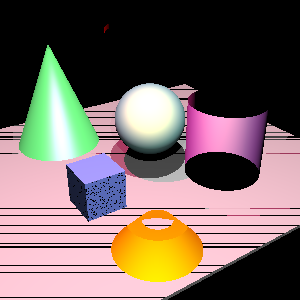
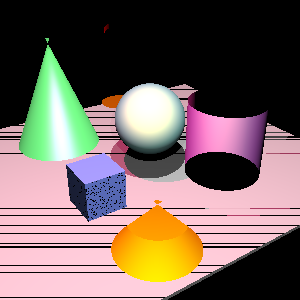
Committing cones n stuff

diff --git a/ray/surface/Cone.java b/ray/surface/Cone.java
@@ -3,9 +3,9 @@ package ray.surface;
 import ray.IntersectionRecord;
 import ray.Ray;
 import ray.math.Point3;
-//import ray.math.Vector3;
-import ray.math.Vector3;
 
+import ray.math.Vector3;
+// TEST2/four-spheres.xml TEST2/green-cone-and-sphere.xml TEST2/one-blue-cylinder.xml TEST2/one-shiny-cylinder.xml TEST2/snow-man.xml TEST2/solids.xml TEST2/two-boxes.xml TEST2/wire-box-3.xml TEST2/pencil.xml
 public class Cone extends Surface {
 	
 	/** The center of the the truncated cone. */
@@ -42,74 +42,91 @@ public class Cone extends Surface {
 		
 		Point3 e = new Point3(rayIn.origin);
 		Vector3 d = new Vector3(rayIn.direction);
+		// C = center;
 		Point3 c = new Point3(center);
+		// P = E-C
 		Point3 p = new Point3(e.x-c.x, e.y-c.y, e.z-c.z);
+		// Distance from point of cone to center point along z axis
 		double h = tipz-c.z;
-		double r = radius;
+//		double h0 = tipz - (c.z+(height/2));
+//		double h1 = tipz - (c.z-(height/2));
+//		double r0 = radius * h0 / height;
+//		double r1 = radius * h1 / height;
 		
-		double s = Math.pow(r, 2)/Math.pow(h, 2);
+		// Calculate the components of the quadratic equation
+		double s = Math.pow(radius, 2)/Math.pow(h, 2);
 		
 		double A = Math.pow(d.x, 2) + Math.pow(d.y, 2) - (s*Math.pow(d.z, 2));
 		double B = 2 * (p.x*d.x + p.y*d.y - s*(p.z-h)*d.z);
 		double C = Math.pow(p.x, 2) + Math.pow(p.y, 2) - (s*Math.pow(p.z-h,2));
-		
-
 		double discriminant = (Math.pow(B, 2) - (4 * A * C));
+		
+		
 		if (discriminant < 0.0) {
 			return false;
 		} else {
-			double t0 = ((-B) + Math.sqrt(discriminant)) / (2 * A);
-			double t1 = ((-B) - Math.sqrt(discriminant)) / 	(2 * A);
 			double t = 0.0;
+			double tStart = rayIn.start;
+			double tEnd = rayIn.end;
 
+			// Calculate T Values
+			double tw0 = ((-B)+Math.sqrt(discriminant))/(2*A);
+			double tw1 = ((-B)-Math.sqrt(discriminant))/(2*A);
 			double tc0 = ((c.z+(height/2))-e.z)/d.z;
 			double tc1 = ((c.z-(height/2))-e.z)/d.z;
 
-			Point3 q0 = new Point3();
-			Point3 q1 = new Point3();
+			// Calculate four intersection points.
+			Point3 qw0 = new Point3();
+			Point3 qw1 = new Point3();
 			Point3 qc0 = new Point3();
 			Point3 qc1 = new Point3();
-			
-			rayIn.evaluate(q0, t0);
-			rayIn.evaluate(q1, t1);
+			rayIn.evaluate(qw0, tw0);
+			rayIn.evaluate(qw1, tw1);
 			rayIn.evaluate(qc0, tc0);
 			rayIn.evaluate(qc1, tc1);
 			
-			boolean cond0 = (q0.z >= c.z - height/2 && q0.z <= c.z + height/2);
-			boolean cond1 = (q1.z >= c.z - height/2 && q1.z <= c.z + height/2);
+			// Calculate booleans to see if t values are valid or not.
+			boolean tw0Valid = (qw0.z >= c.z-(height/2) && qw0.z <= c.z+(height/2)) && (tw0<tEnd) && (tw0>tStart);
+			boolean tw1Valid = (qw1.z >= c.z-(height/2) && qw1.z <= c.z+(height/2)) && (tw1<tEnd) && (tw1>tStart);
+			boolean tc0Valid = Math.pow(qc0.x+c.x, 2)+Math.pow(qc0.y+c.y, 2)<=Math.pow(radius, 2) && (tc0<tEnd) && (tc0>tStart);
+			boolean tc1Valid = Math.pow(qc1.x-c.x, 2)+Math.pow(qc1.y-c.y, 2)<=Math.pow(radius, 2) && (tc1<tEnd) && (tc1>tStart);
 			
-			boolean a0 = Math.pow(qc0.x+c.x, 2)+Math.pow(qc0.y+c.y, 2)<=Math.pow(r, 2);
-			boolean a1 = Math.pow(qc1.x-c.x, 2)+Math.pow(qc1.y-c.y, 2)<=Math.pow(r, 2);
-
-			if (cond0 && cond1) {
-				if (t0 < t1) {
-					t = t0;
-				} else {
-					t = t1;
-				}
-			} else if (a0&&tc0<t0&&tc0<t1) {
-				t=tc0;
-			} else if (a1&&tc1<t0&&tc1<t1) {
-				t=tc1;
-			} else if (cond0 && !cond1) {
-				t = t0;
-			} else if (!cond0 && cond1) {
-				t=t1;
+			// If any T value is deemed invalid, set to positive infinity.
+			if(!tw0Valid) tw0 = Double.POSITIVE_INFINITY;
+			if(!tw1Valid) tw1 = Double.POSITIVE_INFINITY;
+			if(!tc0Valid) tc0 = Double.POSITIVE_INFINITY;
+			if(!tc1Valid) tc1 = Double.POSITIVE_INFINITY;
+			
+			// Calculate the minimum T Value
+			double tw = Math.min(tw0, tw1);
+			double tc = Math.min(tc0, tc1);
+			Point3 q = new Point3();
+			boolean isCap = false;
+			
+			// Check to see which T value represents the first intersection.
+			if(tw<tc&&tw<Double.POSITIVE_INFINITY) { // Ray hit Wall
+				t = tw;
+				isCap=false;
+			} else if(tc<Double.POSITIVE_INFINITY) { // Ray hit Cap
+				t = tc;
+				isCap=true;
 			} else {
 				return false;
 			}
-			Point3 q = new Point3();
-			rayIn.evaluate(q, t);
-			double rad = (-radius/h) * (q.z - h);
+			rayIn.evaluate(q,t);
+			outRecord.surface = this;
+			outRecord.t = t;
 			outRecord.location.set(q);
+			
+			double rad = (-radius/h) * (q.z - h);
+
 			q.x -= c.x;
 			q.y -= c.y;
 			q.z = (rad/h);
-			outRecord.surface = this;
-			outRecord.t = t;
-			if(a0) {
+
+			if(isCap&&q.z>c.z) {
 				outRecord.normal.set(new Vector3(0,0,-1));
-			} else if(a1) {
+			} else if(isCap) {
 				outRecord.normal.set(new Vector3(0,0,1));				
 			} else {
 				outRecord.normal.set(q);

diff --git a/ray/surface/Cylinder.java b/ray/surface/Cylinder.java
@@ -3,7 +3,6 @@ package ray.surface;
 import ray.IntersectionRecord;
 import ray.Ray;
 import ray.math.Point3;
-//import ray.math.Vector3;
 import ray.math.Vector3;
 
 public class Cylinder extends Surface {
